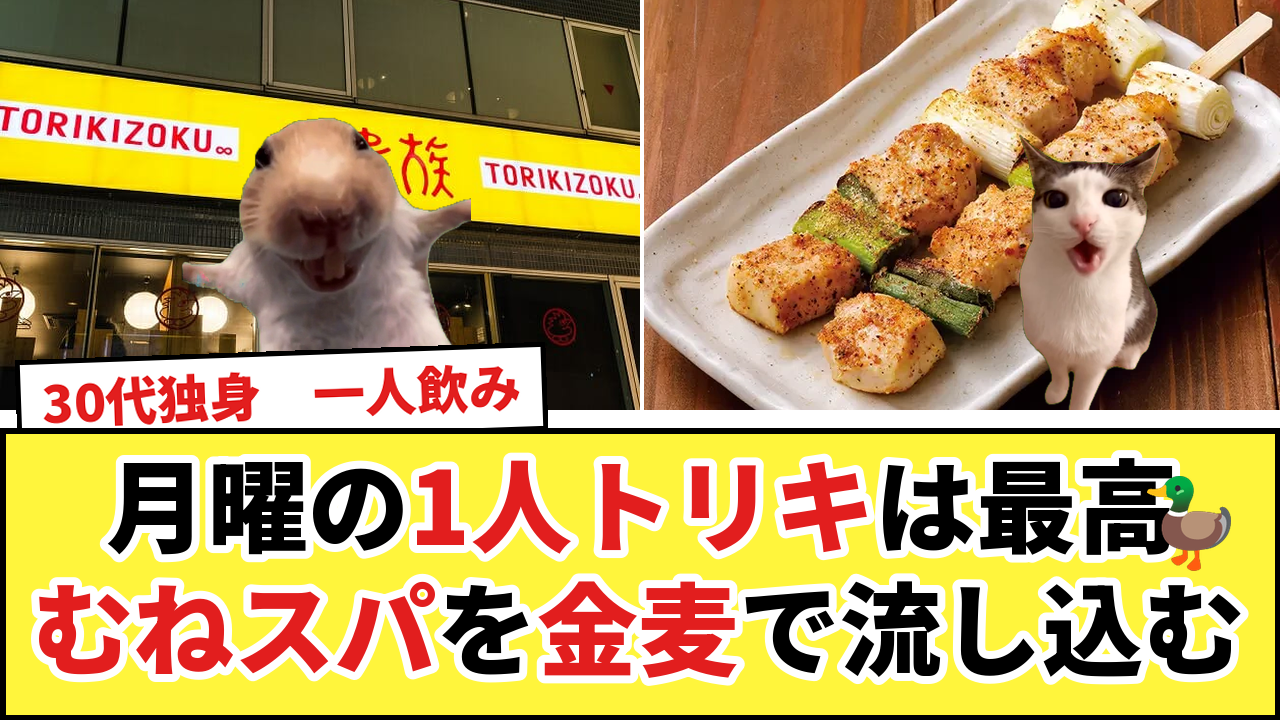
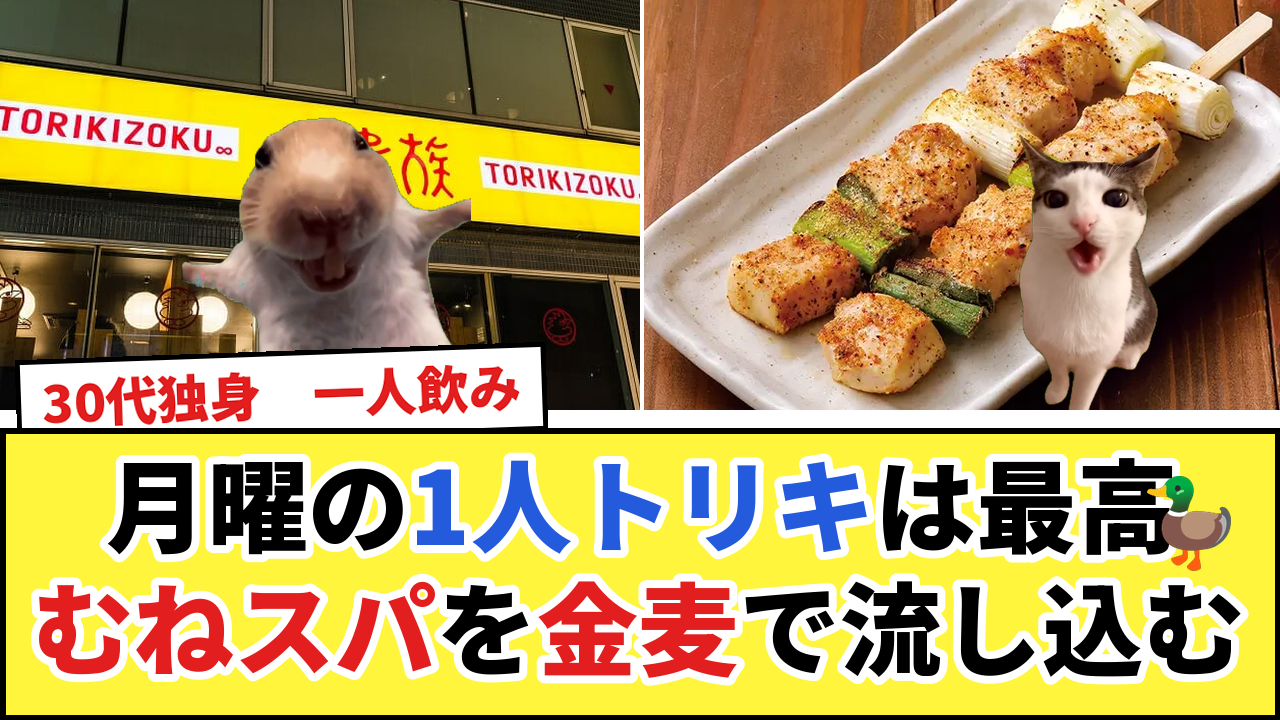
Torikizoku thumb: 1人トリキ in blue
Claude-Session: https://claude.ai/code/session_011g9CsrfFD5YswfNSvNDW39

Changed region(s): [[0.3125, 0.6417, 0.6875, 0.7639]]

diff --git a/catmeme/make_thumb_torikizoku.py b/catmeme/make_thumb_torikizoku.py
@@ -26,7 +26,7 @@ def emoji(ch, h):
 
 
 def main():
-    line1 = [("月曜の", BK), ("1人トリキ", R), ("は最高", BK), ("　 ", BK)]
+    line1 = [("月曜の", BK), ("1人トリキ", T.BLUE), ("は最高", BK), ("　 ", BK)]
     line2 = [("むねスパ", R), ("を", BK), ("金麦", R), ("で流し込む", BK)]
     name = "jidaraku_08_torikizoku_thumb_a.png"
     T.type_a(name, "t01_front", "f_mune_spice",
